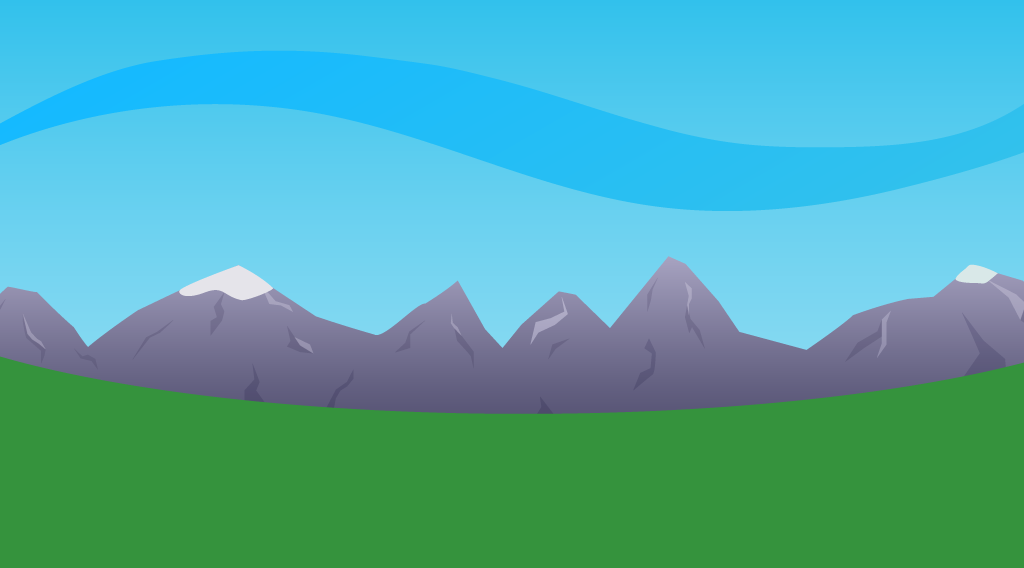
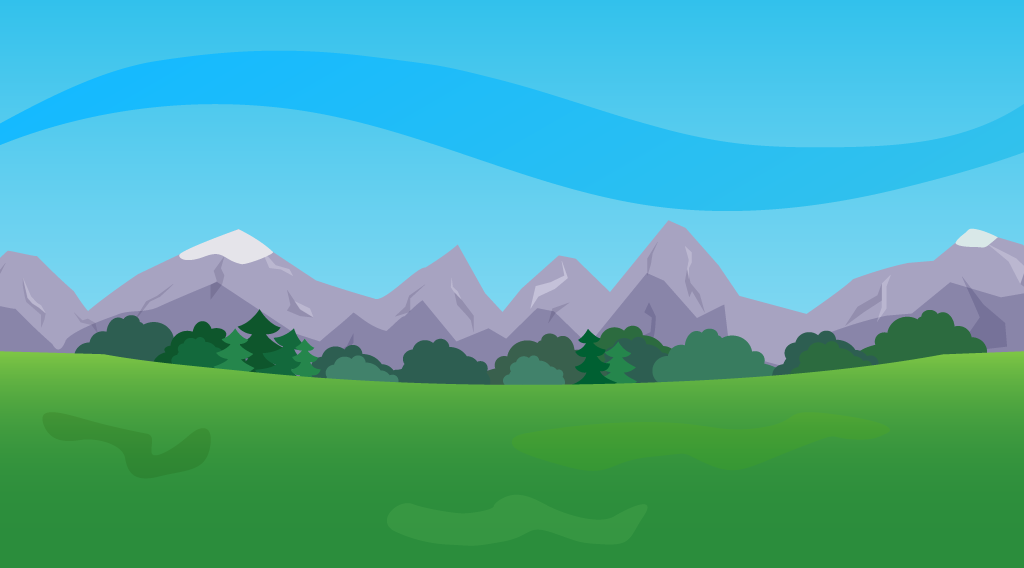
edits

Changed region(s): [[0.0, 0.3891, 1.0, 0.7482]]

diff --git a/js/units/units.js b/js/units/units.js
@@ -12,7 +12,6 @@ class Unit {
         this.damage_to_all = false;
         this.path = [];
         this.is_busy = false;
-        this.cost = 10;
 
         this.draw();
     }
@@ -170,6 +169,7 @@ class Knight extends Unit {
     constructor() {
         super();
 
+        this.src = 'images/units/knight.png';
         this.width = 37;
         this.height = 50;
         this.default_health = 50;
@@ -179,13 +179,13 @@ class Knight extends Unit {
         this.speed = this.default_speed;
         this.default_cooldown_attack = 100;
         this.cooldown_attack = this.default_cooldown_attack;
+        this.cost = 20;
+        this.max_units = 5;
         this.win_price = 5;
         this.t = 0.005;
         this.t_param = 0.0055;
         this.y_param_a = 330 + Math.floor(Math.random() * 15) + 1;
         this.y_param_b = 55;
-
-        this.src = 'images/knight.png';
     }
 }
 
@@ -193,8 +193,8 @@ class Woodcutter extends Unit{
     constructor() {
         super();
 
-        this.src = "images/woodcutter.png";
-        this.src_carry = "images/woodcutter_carry.png";
+        this.src = "images/units/woodcutter.png";
+        this.src_carry = "images/units/woodcutter_carry.png";
         this.id = this.generateUniqueId();
         this.width = 29;
         this.height = 40;
@@ -204,6 +204,8 @@ class Woodcutter extends Unit{
         this.default_speed = 2;
         this.speed = this.default_speed;
         this.default_cooldown_attack = 50;
+        this.cost = 10;
+        this.max_units = 3;
         this.cooldown_attack = this.default_cooldown_attack;
         this.speed_wearing = this.default_speed/2;
         this.speed_cutting = 100;
@@ -269,10 +271,10 @@ class Archer extends Unit {
     constructor() {
         super();
 
-        this.src = "images/archer.png";
+        this.src = "images/units/archer.png";
         this.width = 35;
         this.height = 55;
-        this.default_health = 30;
+        this.default_health = 25;
         this.health = this.default_health;
         this.damage = 5;
         this.default_speed = 1.2;
@@ -280,6 +282,8 @@ class Archer extends Unit {
         this.attack_distance = 300;
         this.default_cooldown_attack = 200;
         this.cooldown_attack = this.default_cooldown_attack;
+        this.cost = 30;
+        this.max_units = 3;
         this.win_price = 5;
         this.t = 0.01;
         this.t_param = 0.0045;

diff --git a/js/game.js b/js/game.js
@@ -136,7 +136,7 @@ window.addEventListener("load", function() {
         woodcutter.speed = -woodcutter.speed;
         woodcutter.default_speed = -woodcutter.default_speed;
         //woodcutter.fighting_with = [];
-        woodcutter.src = 'images/woodcutter2.png';
+        woodcutter.src = 'images/units/woodcutter2.png';
         game.hireUnit(woodcutter);
     };
 
@@ -147,14 +147,14 @@ window.addEventListener("load", function() {
         knight.speed = -knight.speed;
         knight.default_speed = -knight.default_speed;
         //knight.fighting_with = [];
-        knight.src = 'images/knight2.png';
+        knight.src = 'images/units/knight2.png';
         game.hireUnit(knight);
     };
 
     document.getElementById('button_06').onclick = function() {
         let archer = new Archer();
         archer.x = 900;
-        archer.src = "images/archer2.png";
+        archer.src = "images/units/archer2.png";
         archer.player = 2;
         archer.default_speed = -archer.default_speed;
         archer.speed = archer.default_speed;

diff --git a/css/styles.css b/css/styles.css
@@ -13,7 +13,7 @@ body {
     width: 1024px;
     height: 568px;
     background-color: #FFF;
-    background: url("../images/backgrounds/background3.png");
+    background: url("../images/backgrounds/background.png");
 }
 
 .gamelayer {
